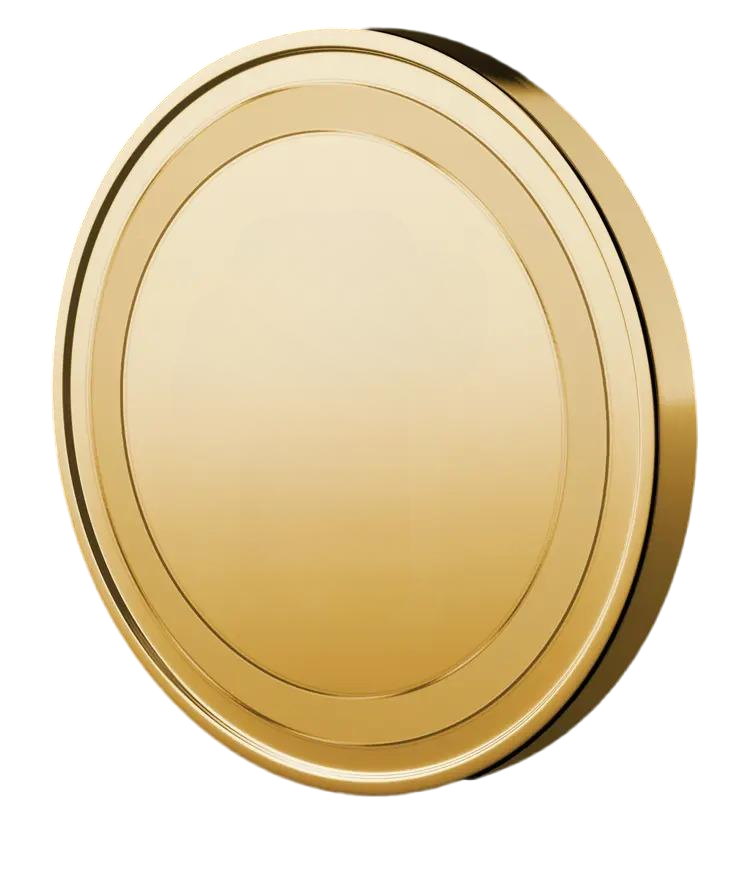
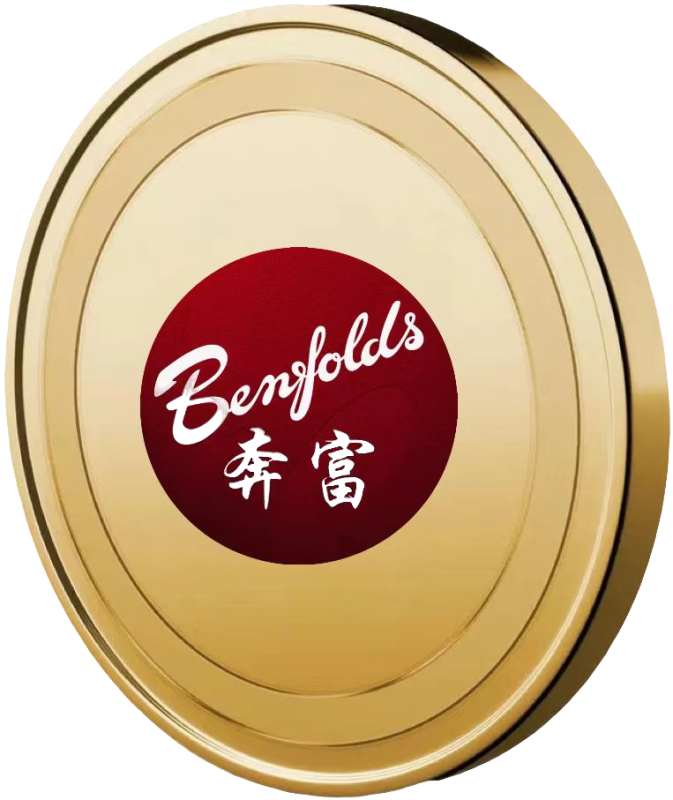
增加下滑页面

diff --git a/src/App.jsx b/src/App.jsx
@@ -96,13 +96,13 @@ export default function App() {
         <div className="relative w-full h-full flex flex-col items-center">
           <header className="w-full flex justify-between items-center p-3">
             <div className="flex items-center text-rose-600">
-              <img className="w-10 h-10" src={benfoldsImg} alt="" />
+              <img className="w-7 h-7 md:w-10 md:h-10" src={benfoldsImg} />
               <span className="ml-2 italic font-bold font-serif text-xl">
                 Benfolds
               </span>
             </div>
           </header>
-          <main className="mt-5 px-4 w-full flex flex-col items-center justify-start text-white font-bold">
+          <main className="mt-2 md:mt-8 px-4 w-full flex flex-col items-center justify-start text-white font-bold">
             <p className="pb-7">
               <span className="text-lg">
                 澳大利亚知名红酒品牌奔富（Penfolds）
@@ -178,7 +178,7 @@ export default function App() {
               <div className="w-full h-full md:w-80 md:h-80 translate-y-16">
                 <img className="w-full h-full" src={phone} />
               </div>
-              <div className="coin absolute w-[82%] h-[105%] translate-y-14">
+              <div className="coin absolute w-[78%] h-[100%] translate-y-14">
                 <img className="w-full h-full" src={coin} />
               </div>
             </div>
@@ -187,14 +187,16 @@ export default function App() {
               <p className="text-rose-800 font-bold text-4xl mb-6">
                 Penfolds酒庄联名
               </p>
-              <p className="font-bold">持有NFT享联名红酒分红</p>
+              <p className="font-bold">
+                持有NFT享联名红酒分红（即将推出.....）
+              </p>
               <div className="w-80 h-80 -translate-y-2">
                 <img src={wineManor} />
               </div>
             </div>
           </div>
           {/* 卡片 */}
-          <div className="flex flex-col md:flex-row items-center justify-center leading-relaxed md:mt-10">
+          <div className="flex flex-col md:flex-row items-center justify-center leading-relaxed">
             <div className="w-60 flex flex-col justify-center items-center rounded-md p-10 m-4">
               <div className="w-16 h-16 mb-3">
                 <FcMindMap className="w-full h-full" />

diff --git a/src/App.scss b/src/App.scss
@@ -1,5 +1,5 @@
 .card {
-  background: rgba(0, 0, 0, 0.7); /* 半透明背景 */
+  background: rgba(0, 0, 0, 0.8); /* 半透明背景 */
   backdrop-filter: blur(10px); /* 模糊效果 */
   /* 其他样式（如边框、圆角等）*/
   border-radius: 10px;
@@ -16,7 +16,7 @@
 }
 
 strong {
-  @apply hover:scale-105 hover:hue-rotate-[60deg] bg-clip-text text-transparent bg-transparent px-[0.1rem] font-semibold transition-all duration-700;
+  @apply hover:scale-105 hover:hue-rotate-[540deg] bg-clip-text text-transparent bg-transparent px-[0.1rem] font-semibold transition-all duration-700;
   background: linear-gradient(62deg, #ec4899, #4c0519);
   background-clip: text;
   color: transparent;

diff --git a/src/index.scss b/src/index.scss
@@ -6,5 +6,5 @@ html,
 body,
 #root,
 .App {
-  @apply w-full h-full absolute top-0 left-0;
+  @apply w-full h-full absolute top-0 left-0 bg-gray-950;
 }
